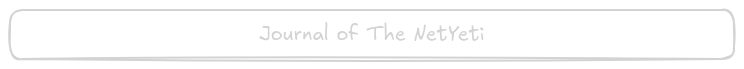
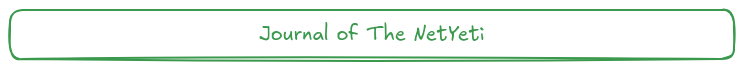
Obsidian edits from Gearbox at 2025-08-04 15:38:42
Affected files:
.obsidian/workspace.json
Assets/banner.md
publish/banner.png

diff --git a/Assets/banner.md b/Assets/banner.md
@@ -17,18 +17,20 @@ Journal of The NetYeti ^AKGprIKe
 ```compressed-json
[1 lines of base64/hex data omitted]
 
[2 lines of base64/hex data omitted]
 
[2 lines of base64/hex data omitted]
 
[2 lines of base64/hex data omitted]
 
[2 lines of base64/hex data omitted]
 
[2 lines of base64/hex data omitted]
 
[2 lines of base64/hex data omitted]
 
[2 lines of base64/hex data omitted]
+
+N40xAA==
 ```
 %%
